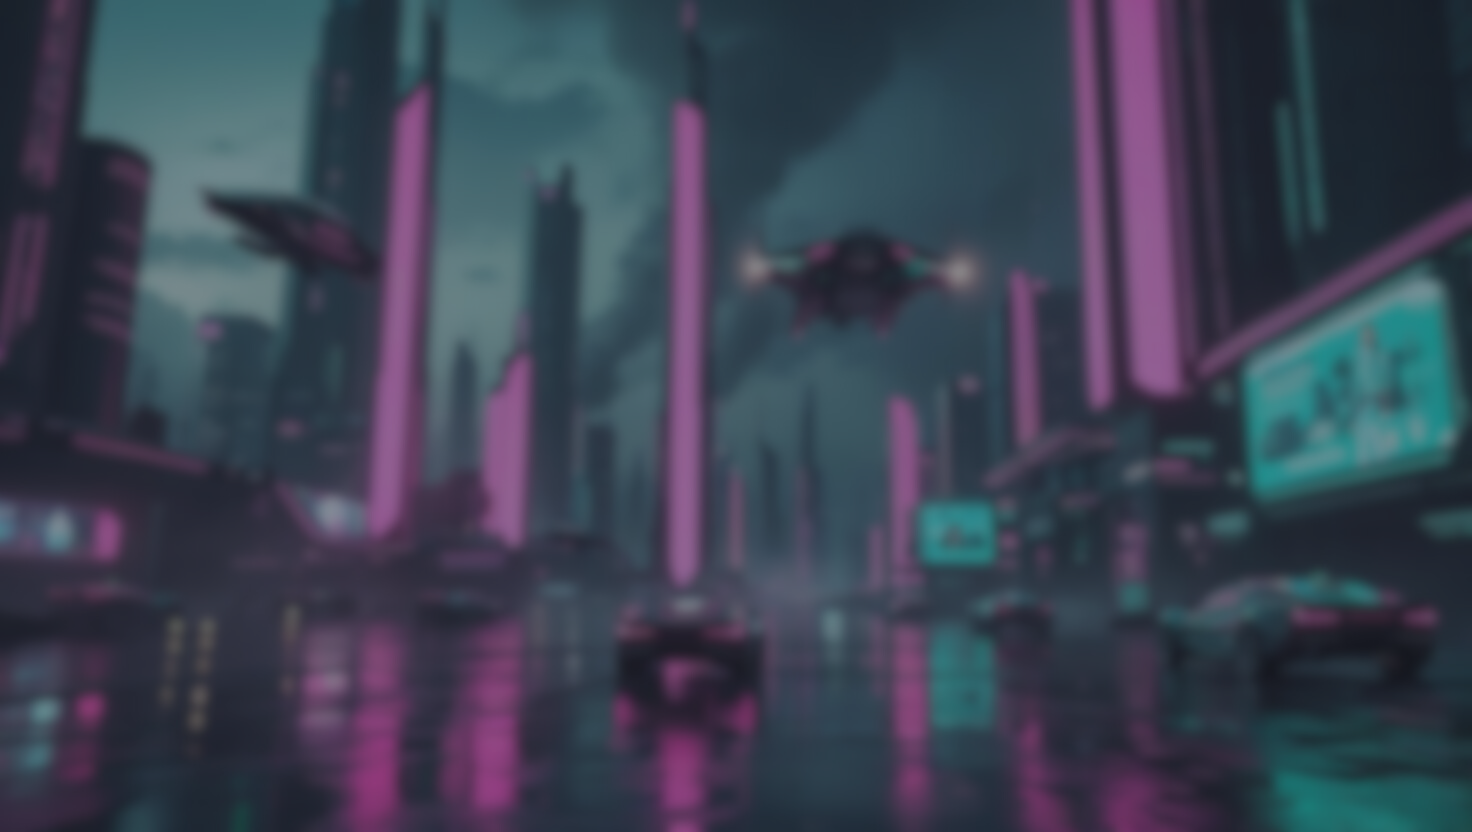
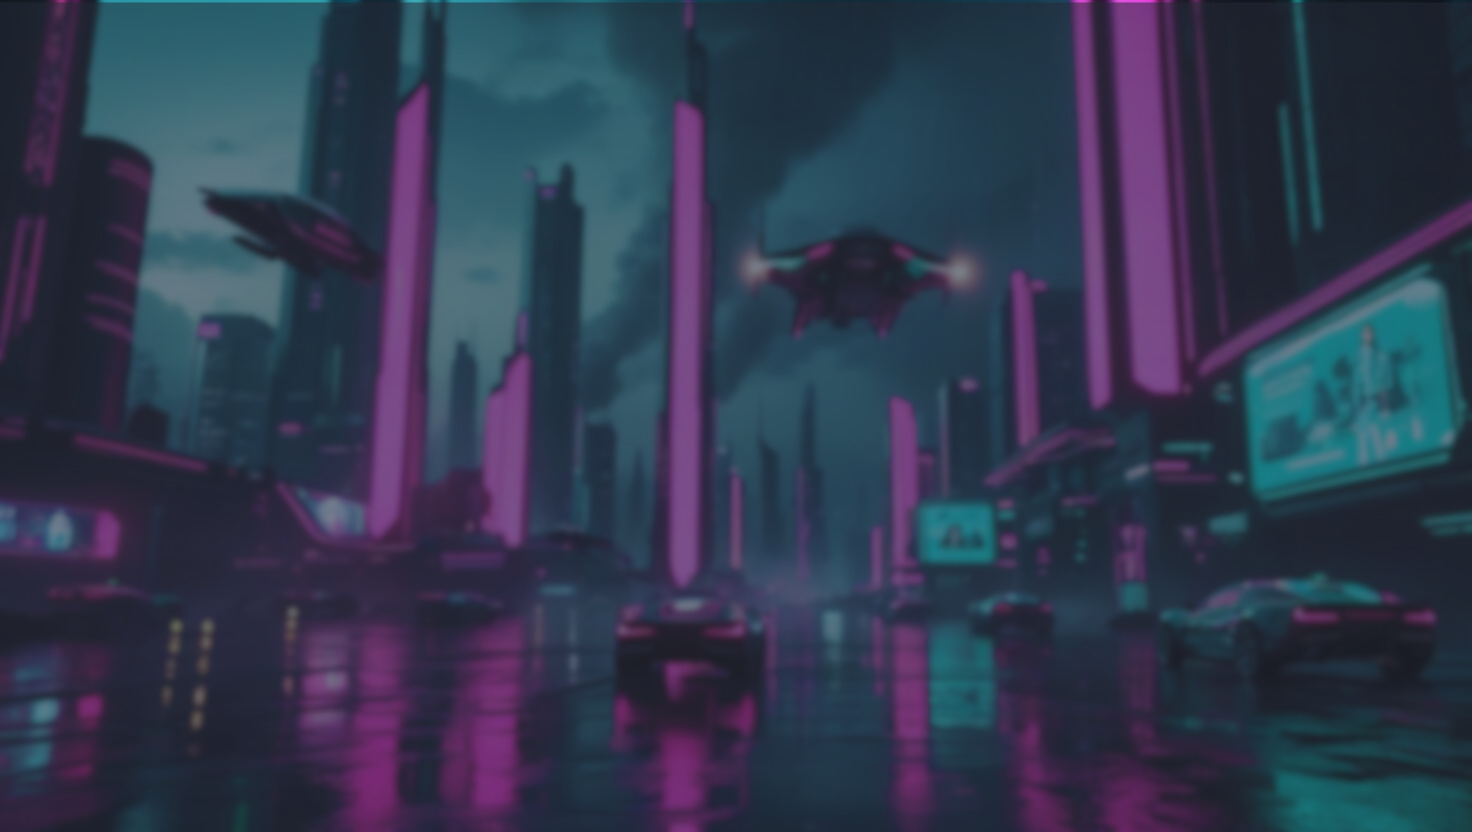
imagens

diff --git a/index.html b/index.html
@@ -7,25 +7,25 @@
   <script src="https://cdn.tailwindcss.com"></script>
   <style>
     .navbar-solid {
-      background-color: #333125 !important;
+      background-color: #242936 !important;
       transition: background-color 0.3s ease-in-out;
     }
   </style>
 </head>
-<body class="bg-gray-50 text-gray-900 font-sans">
+<body class="bg-white text-black font-sans">
 
   <!-- Navbar -->
   <header id="navbar" class="fixed w-full z-50 transition">
     <nav class="max-w-7xl mx-auto flex items-center justify-between px-6 py-4">
       <!-- Logo -->
-      <h1 class="text-2xl font-bold text-[#DBC558]">NáthallyDev</h1>
+      <h1 class="text-2xl font-bold text-[#FFFFFF]">NáthallyDev</h1>
 
       <!-- Menu -->
       <ul class="flex space-x-6 text-lg text-white">
-        <li><a href="#home" class="hover:text-[#DBC558]">Home</a></li>
-        <li><a href="#sobremim" class="hover:text-[#DBC558]">Sobre Mim</a></li>
-        <li><a href="#trabalhos" class="hover:text-[#DBC558]">Trabalhos</a></li>
-        <li><a href="#contato" class="hover:text-[#DBC558]">Contato</a></li>
+        <li><a href="#home" class="hover:text-[#603e62]">Home</a></li>
+        <li><a href="#sobremim" class="hover:text-[#603e62]">Sobre Mim</a></li>
+        <li><a href="#trabalhos" class="hover:text-[#603e62]">Trabalhos</a></li>
+        <li><a href="#contato" class="hover:text-[#603e62]">Contato</a></li>
       </ul>
 
       <!-- Idiomas -->
@@ -44,14 +44,16 @@
   <section id="home" class="h-screen bg-cover bg-center flex items-center justify-center text-center relative"
     style="background-image: url('images/Wallpapers/background_1.png');">
 
-    <div class="absolute inset-0 bg-black bg-opacity-50"></div>
+    <div class="absolute inset-0 bg-black bg-opacity-60"></div>
 
     <div class="relative text-white px-6">
-      <h2 class="text-5xl md:text-6xl font-extrabold mb-6">Olá, eu sou <span class="text-[#DBC558]">Náthally Lima</span></h2>
+      <h2 class="text-5xl md:text-6xl font-extrabold mb-6">
+        Olá, eu sou <span class="text-[#603e62]">Náthally Lima</span>
+      </h2>
       <p class="text-lg md:text-xl max-w-2xl mx-auto mb-8">
         Onde suas ideias, são nossos códigos
       </p>
-      <a href="#servicos" class="px-6 py-3 bg-[#B0A364] text-white font-semibold rounded-lg shadow-lg hover:bg-[#DBC558] transition">
+      <a href="#servicos" class="px-6 py-3 bg-[#603e62] text-white font-semibold rounded-lg shadow-lg hover:bg-[#242936] transition">
         Saiba Mais
       </a>
     </div>
@@ -60,28 +62,47 @@
   <!-- Seção Serviços -->
   <section id="servicos" class="py-20 bg-white">
     <div class="max-w-6xl mx-auto text-center px-6">
-      <h3 class="text-4xl font-bold text-[#333125] mb-12">Serviços</h3>
-      <div class="grid gap-12 md:grid-cols-3">
+      <h3 class="text-4xl font-bold text-[#242936] mb-12">Serviços</h3>
 
+      <div class="grid gap-12 md:grid-cols-3">
+        
         <!-- Card 1 -->
-        <div class="rounded-2xl shadow-lg p-8 hover:-translate-y-2 transition bg-gray-100">
-          <h4 class="text-2xl font-semibold mb-4">Inteligência Artificial</h4>
-          <p class="text-gray-700 mb-6">Modelos de IA aplicados em soluções práticas e inteligentes.</p>
-          <a href="trabalhos.html" class="px-4 py-2 bg-[#333125] text-white rounded-lg hover:bg-[#DBC558]">Saiba Mais</a>
+        <div class="flex flex-col items-center">
+          <div class="w-64 h-64 rounded-full overflow-hidden shadow-lg mb-6">
+            <img src="images/Serviços/1.jpg" alt="Inteligência Artificial" class="w-full h-full object-cover">
+          </div>
+          <h4 class="text-xl font-semibold text-black">Inteligência Artificial & ChatBots</h4>
+          <p class="text-[#603e62] font-medium mb-4">Soluções de Machine Learning</p>
+          <a href="trabalhos.html" 
+             class="px-6 py-2 bg-[#603e62] text-white rounded-full shadow hover:bg-[#242936] transition">
+            Saiba Mais
+          </a>
         </div>
 
         <!-- Card 2 -->
-        <div class="rounded-2xl shadow-lg p-8 hover:-translate-y-2 transition bg-gray-100">
-          <h4 class="text-2xl font-semibold mb-4">Backend</h4>
-          <p class="text-gray-700 mb-6">APIs e sistemas robustos, escaláveis e seguros.</p>
-          <a href="trabalhos.html" class="px-4 py-2 bg-[#333125] text-white rounded-lg hover:bg-[#DBC558]">Saiba Mais</a>
+        <div class="flex flex-col items-center">
+          <div class="w-64 h-64 rounded-full overflow-hidden shadow-lg mb-6">
+            <img src="images/Serviços/2.jpg" alt="Backend" class="w-full h-full object-cover">
+          </div>
+          <h4 class="text-xl font-semibold text-black">Desenvolvimento de Software</h4>
+          <p class="text-[#603e62] font-medium mb-4">Criação de ferramentas e aplicações robustas para seus problemas</p>
+          <a href="trabalhos.html" 
+             class="px-6 py-2 bg-[#603e62] text-white rounded-full shadow hover:bg-[#242936] transition">
+            Saiba Mais
+          </a>
         </div>
 
         <!-- Card 3 -->
-        <div class="rounded-2xl shadow-lg p-8 hover:-translate-y-2 transition bg-gray-100">
-          <h4 class="text-2xl font-semibold mb-4">Frontend</h4>
-          <p class="text-gray-700 mb-6">Interfaces modernas e responsivas que encantam usuários.</p>
-          <a href="trabalhos.html" class="px-4 py-2 bg-[#333125] text-white rounded-lg hover:bg-[#DBC558]">Saiba Mais</a>
+        <div class="flex flex-col items-center">
+          <div class="w-64 h-64 rounded-full overflow-hidden shadow-lg mb-6">
+            <img src="images/Serviços/3.jpg" alt="Frontend" class="w-full h-full object-cover">
+          </div>
+          <h4 class="text-xl font-semibold text-black">Consultoria</h4>
+          <p class="text-[#603e62] font-medium mb-4">Está perdido? Uma consultoria pode te ajudar!</p>
+          <a href="trabalhos.html" 
+             class="px-6 py-2 bg-[#603e62] text-white rounded-full shadow hover:bg-[#242936] transition">
+            Saiba Mais
+          </a>
         </div>
 
       </div>
@@ -90,42 +111,22 @@
 
   <!-- Seção Contato -->
   <section id="contato" class="h-[80vh] bg-cover bg-center flex items-center justify-center text-center relative"
-    style="background-image: url('images/Wallpapers/background_2.jpeg');">
+    style="background-image: url('images/Wallpapers/background_2.png');">
 
-    <div class="absolute inset-0 bg-black bg-opacity-60"></div>
+    <div class="absolute inset-0 bg-black bg-opacity-70"></div>
 
     <div class="relative text-white px-6">
       <h3 class="text-4xl md:text-5xl font-bold mb-6">Entre em Contato</h3>
       <p class="max-w-2xl mx-auto mb-6">Marque uma consulta gratuita ou tire suas dúvidas diretamente comigo.</p>
-      <a href="https://wa.me/5511999999999" target="_blank" class="px-6 py-3 bg-[#B0A364] text-white font-semibold rounded-lg shadow-lg hover:bg-[#DBC558] transition">
+      <a href="https://wa.me/5511999999999" target="_blank" 
+         class="px-6 py-3 bg-[#603e62] text-white font-semibold rounded-lg shadow-lg hover:bg-[#242936] transition">
         Falar no WhatsApp
       </a>
     </div>
   </section>
 
-  <!-- Redes Sociais -->
-  <section id="redes" class="py-20 bg-gray-100">
-    <div class="max-w-6xl mx-auto text-center px-6">
-      <h3 class="text-4xl font-bold text-[#333125] mb-12">Siga-me nas Redes</h3>
-      <div class="grid gap-6 grid-cols-2 md:grid-cols-4">
-        <a href="https://www.linkedin.com" target="_blank">
-          <img src="images/redes/linkedin.png" class="rounded-xl shadow-lg hover:scale-105 transition"/>
-        </a>
-        <a href="https://www.instagram.com" target="_blank">
-          <img src="images/redes/instagram.png" class="rounded-xl shadow-lg hover:scale-105 transition"/>
-        </a>
-        <a href="https://wa.me/5511999999999" target="_blank">
-          <img src="images/redes/whatsapp.png" class="rounded-xl shadow-lg hover:scale-105 transition"/>
-        </a>
-        <a href="mailto:email@exemplo.com" target="_blank">
-          <img src="images/redes/email.png" class="rounded-xl shadow-lg hover:scale-105 transition"/>
-        </a>
-      </div>
-    </div>
-  </section>
-
   <!-- Rodapé -->
-  <footer class="bg-[#333125] text-gray-300 py-10">
+  <footer class="bg-[#242936] text-gray-300 py-10">
     <div class="text-center">
       © 2025 - Criado por Náthally Lima Arruda
     </div>
